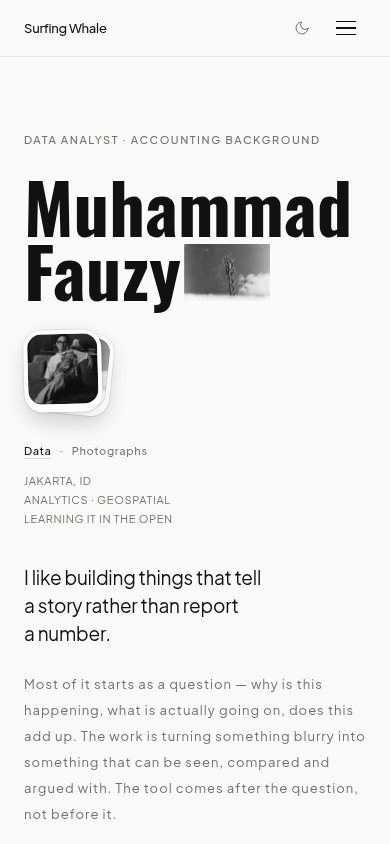
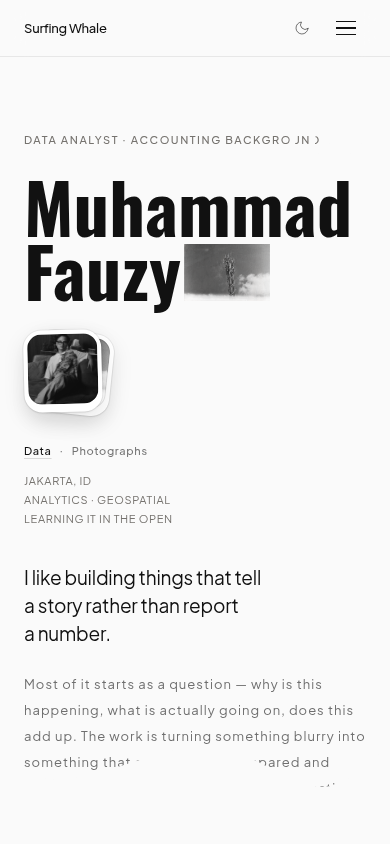
Make the opening the first thing on screen, not the second
Fauzy opened the site on 4G and got a blank white screen, then the counter.
Two loading states where the reference has one — and he is right that it reads
as a bug rather than as an intro.

The cause was not the overlay. The ink was painted by html.intro::before
defined in the external stylesheet, and the page is render-blocked on that
file. Until it lands there is nothing to paint, so the browser shows white.
Reproduced with the stylesheet held back 900ms:

  before   first ink at 1313ms, white before it
  after    first ink at   25ms, zero white frames

INTRO_CRITICAL_CSS is now inlined in <head>, ahead of the stylesheet link. It
cannot use var(--fg) — those tokens live in the file it is racing — so it
carries #111111 and #f0f0f0 as literals, and case G of the checker fails if
they ever drift from globals.css. Verified both ways round: light paints
rgb(17,17,17) before the stylesheet, dark paints rgb(240,240,240).

NOTHING IS ON A CLOCK THAT STARTS AT FIRST PAINT ANY MORE. The exit used a
fixed 1400ms delay. On a slow connection that fires before React has loaded to
draw the number, so the count would be skipped entirely — the fix for the
white screen would have broken the thing it was protecting. Everything now
keys off an `.intro-out` class that React adds when the count finishes, or
that a setTimeout in the inline script adds after 5s if React never arrives.
That backstop is in the HTML, not in a chunk that can fail to load.
[…]

diff --git a/app/components/Intro.tsx b/app/components/Intro.tsx
@@ -9,28 +9,41 @@
 // the curtain is a wave rather than a straight line, and it is the same curve
 // twice rather than two ideas.
 //
+// NOTHING HERE IS ON A CLOCK THAT STARTS AT FIRST PAINT. The ink is painted by
+// INTRO_CRITICAL_CSS, inlined in <head>, and it stays until something says the
+// page is ready. That is the whole shape of this file and it is the second
+// version: the first put the ink in the external stylesheet with a fixed
+// 1400ms delay on its exit, which on a real phone over 4G produced a 1.3s
+// white screen and *then* the counter — two loading states, measured, where
+// the reference has one. The page is render-blocked on that stylesheet, so
+// until it lands there is no ink to paint.
+//
+// A fixed delay would have been wrong anyway. On a slow connection the exit
+// would fire before React had loaded to draw the number, and the whole count
+// would be skipped. The ink leaves when the count finishes, or when the
+// backstop in the inline script gives up on React — not when a timer that
+// started before anything was loaded says so.
+//
 // THREE RULES, because an intro is the one component that can lock somebody
 // out of a site they have not seen yet:
 //
 //  1. It never gates the content. The page is server-rendered underneath and
 //     complete before this mounts; this is an overlay that takes itself away.
-//     With JavaScript off, the pre-paint script below never adds the class,
-//     no overlay is painted, and the site is simply there.
+//     With JavaScript off, the inline script never adds the class, no overlay
+//     is painted, and the site is simply there.
 //
-//  2. It cannot get stuck. The panel's exit is a CSS animation with
-//     `forwards`, not a React state change, so it finishes and stops taking
-//     pointer events even if hydration never happens or throws. React only
-//     drives the number.
+//  2. It cannot get stuck. The backstop is a setTimeout in the inline script,
+//     which runs from the HTML itself rather than from a chunk that can fail
+//     to load, and the exit it triggers is a CSS animation with `forwards`.
+//     React is not on the path that removes this.
 //
 //  3. It plays once a session, and not at all for anyone who has asked for
-//     less motion. Replaying on every internal navigation is how a nice intro
-//     becomes the reason somebody leaves.
+//     less motion.
 //
 // The cost, stated rather than buried: for one visit per session the overlay
-// is the largest thing painted, so it is what LCP measures. 2.2s of ink is a
-// real number on that metric and it is the price of the thing being asked
-// for. Returning within the session, and anyone with reduced motion, pay
-// nothing — no overlay is rendered at all.
+// is the largest thing painted, so it is what LCP measures. Returning within
+// the session, and anyone with reduced motion, pay nothing — no overlay is
+// rendered at all.
 "use client";
 
 import { useEffect, useRef, useState } from "react";
@@ -54,11 +67,47 @@ const FADE_MS = 250;
 export const INTRO_MS = COUNT_MS + HOLD_MS + WAVE_MS + FADE_MS;
 
 const SEEN = "sw-intro-seen";
+// How long to wait for React before clearing the ink anyway.
+//
+// A real trade, both ends of which cost something. Too short and a phone on
+// bad data loses the count it was waiting through. Too long and a bundle that
+// never arrives holds somebody on a black screen for no reason. Five seconds
+// is past where JavaScript lands on a slow connection in testing (~1.3s with
+// the chunks held back 1.2s) with room to spare, and short enough that a
+// broken deploy reads as slow rather than as broken.
+//
+// If this does fire, React may still mount afterwards — so the component
+// checks for `intro-out` and renders nothing rather than drawing a counter
+// over an overlay that has already left.
+const BACKSTOP_MS = 5000;
+
+/**
+ * The ink, inlined in <head> so it is painted from the HTML itself.
+ *
+ * It cannot use var(--fg): those tokens live in the external stylesheet, and
+ * the whole point of this is to be on screen before that arrives. The two
+ * literals below are --fg's light and dark values; they have to be changed
+ * with globals.css, and there is a check for that in scripts/verify-intro.mjs.
+ *
+ * Theme resolution matches THEME_INIT_SCRIPT: an explicit data-theme wins,
+ * otherwise the system preference.
+ */
+export const INTRO_CRITICAL_CSS = `
+html.intro::before{content:"";position:fixed;inset:0;z-index:9998;background:#111111;pointer-events:none}
+html.intro[data-theme="dark"]::before{background:#f0f0f0}
+@media (prefers-color-scheme:dark){html.intro:not([data-theme="light"])::before{background:#f0f0f0}}
+html.intro-out::before{animation:sw-intro-gone ${FADE_MS}ms linear ${WAVE_MS}ms forwards}
+@keyframes sw-intro-gone{to{opacity:0;visibility:hidden}}
+@media (prefers-reduced-motion:reduce){html.intro::before{display:none}}
+`.trim();
 
 /**
  * Runs before first paint, in <head>, the way the theme and reveal scripts
  * already do. Deciding here rather than in React is what stops a returning
  * visitor seeing a flash of ink before the component can say "not this time".
+ *
+ * The timeout is the backstop: it lives in the HTML, so a JavaScript bundle
+ * that never arrives cannot leave anyone looking at a black screen.
  */
 export const INTRO_INIT_SCRIPT = `
 try {
@@ -67,6 +116,9 @@ try {
   if (!seen && !still) {
     document.documentElement.classList.add('intro');
     sessionStorage.setItem('${SEEN}', '1');
+    setTimeout(function () {
+      document.documentElement.classList.add('intro-out');
+    }, ${BACKSTOP_MS});
   }
 } catch (e) {}
 `.trim();
@@ -100,9 +152,16 @@ export function Intro() {
   const raf = useRef(0);
 
   useEffect(() => {
-    if (!document.documentElement.classList.contains("intro")) return;
+    const html = document.documentElement;
+    if (!html.classList.contains("intro")) return;
+    // The backstop already gave up on us. Drawing a counter now would put it
+    // over an overlay that has finished leaving.
+    if (html.classList.contains("intro-out")) return;
     setOn(true);
 
+    // The count starts when React does, not when the page was requested. On a
+    // slow connection the ink has already been up for a while; this is the
+    // part that says the waiting is over.
     const start = performance.now();
     const tick = (now: number) => {
       const t = Math.min(1, (now - start) / COUNT_MS);
@@ -111,14 +170,16 @@ export function Intro() {
     };
     raf.current = requestAnimationFrame(tick);
 
-    // The class goes whatever happens to this component, so a second mount —
-    // a fast route change, Strict Mode in development — never replays it.
-    const done = setTimeout(() => {
-      document.documentElement.classList.remove("intro");
-    }, INTRO_MS);
+    // Counting done, hold on 100, then hand over to the CSS exit.
+    const out = setTimeout(() => html.classList.add("intro-out"), COUNT_MS + HOLD_MS);
+    // And the class that gates all of this goes once the exit has run, so a
+    // second mount — a fast route change, Strict Mode in development — never
+    // replays it.
+    const done = setTimeout(() => html.classList.remove("intro", "intro-out"), INTRO_MS + 400);
 
     return () => {
       cancelAnimationFrame(raf.current);
+      clearTimeout(out);
       clearTimeout(done);
     };
   }, []);

diff --git a/app/globals.css b/app/globals.css
@@ -814,43 +814,35 @@ body:has(.photo-row) {
 }
 
 /* ---- The opening ------------------------------------------------------
-   app/components/Intro.tsx. Everything that takes the overlay away lives
-   here rather than in React state, on purpose: a CSS animation with
-   `forwards` finishes whether or not the component hydrates, so a failed or
-   slow hydration leaves a usable page instead of a black screen nobody can
-   get past. React only drives the number.
+   app/components/Intro.tsx.
 
-   NOTHING LIFTS. The first version slid the ink panel up out of the way at
-   the same time as the paper rose, and the ink's straight bottom edge is what
-   anyone actually saw — the wave was behind it the whole time. A frame-by-
-   frame capture at 45ms showed a clean horizontal line where the curve was
-   supposed to be. The ink now sits still and is covered, which is what the
-   reference does and the only way the edge of the wave is the edge anyone
-   sees.
+   The INK IS NOT HERE. It is in INTRO_CRITICAL_CSS, inlined in <head>, because
+   this file is an external stylesheet and the page is render-blocked on it:
+   on a phone over 4G that meant 1.3 seconds of white and then the counter, two
+   loading states where the reference has one. Measured, with the stylesheet
+   held back 900ms.
+
+   What is left here runs after the ink is already up, by which time this
+   stylesheet has certainly arrived.
+
+   NOTHING IS ON A TIMER THAT STARTS AT FIRST PAINT. Everything keys off
+   `.intro-out`, which React adds when the count finishes — or which the
+   backstop in the inline script adds if React never arrives. A fixed delay
+   would fire the exit before the number had loaded on a slow connection and
+   skip the whole count.
+
+   NOTHING LIFTS, either. An earlier version slid the ink up while the paper
+   rose, and the ink's straight bottom edge is what anyone actually saw. The
+   ink sits still and is covered, which is what the reference does.
 
    Timings mirror the constants in Intro.tsx; change them together. */
-
-/* The ink is painted by the class the pre-paint script adds, not by React.
-   Rendering it in the component meant the page was on screen for the ~150ms
-   before hydration and the overlay dropped on top of it — a flash of the
-   whole site, then black, then the site again. Measured at 149ms on a
-   production build; this closes it, because a ::before on <html> is painted
-   in the first frame.
-
-   It hides on its own schedule, with `forwards`, so it leaves on time even if
-   React never mounts to take the class off. */
-html.intro::before {
-  content: "";
-  position: fixed;
-  inset: 0;
-  z-index: 9998;
-  background: var(--fg);
-  pointer-events: none;
-  animation: sw-intro-gone 250ms linear 1950ms forwards;
+.sw-intro {
+  /* Held open until the exit is called for. */
+  opacity: 1;
 }
 
-.sw-intro {
-  animation: sw-intro-gone 250ms linear 1950ms forwards;
+html.intro-out .sw-intro {
+  animation: sw-intro-gone 250ms linear 550ms forwards;
 }
 
 /* Paper, rising over the ink and over the count. It sits at `top: 100%` with
@@ -858,8 +850,8 @@ html.intro::before {
    to appear is the curve. It travels a viewport plus the crest's own height,
    which is what puts the body over the whole screen while the crest is still
    on it. */
-.sw-intro-wave {
-  animation: sw-intro-rise 550ms cubic-bezier(0.65, 0, 0.35, 1) 1400ms forwards;
+html.intro-out .sw-intro-wave {
+  animation: sw-intro-rise 550ms cubic-bezier(0.65, 0, 0.35, 1) forwards;
 }
 
 @keyframes sw-intro-rise {
@@ -870,14 +862,13 @@ html.intro::before {
   to { opacity: 0; visibility: hidden; }
 }
 
-/* Nothing was rendered for this reader in the first place — the pre-paint
-   script never adds the class — but if the preference changes mid-animation
-   the overlay should leave immediately rather than finish its sweep. */
+/* Nothing was rendered for this reader in the first place — the inline script
+   never adds the class — but if the preference changes mid-animation the
+   overlay should leave immediately rather than finish its sweep. */
 @media (prefers-reduced-motion: reduce) {
   .sw-intro,
   .sw-intro-wave {
     animation: none;
   }
   .sw-intro { display: none; }
-  html.intro::before { display: none; }
 }

diff --git a/app/layout.tsx b/app/layout.tsx
@@ -5,7 +5,7 @@ import "./globals.css";
 import { SITE } from "./lib/site";
 import { THEME_INIT_SCRIPT } from "./components/ThemeToggle";
 import { REVEAL_INIT_SCRIPT } from "./components/Reveal";
-import { Intro, INTRO_INIT_SCRIPT } from "./components/Intro";
+import { Intro, INTRO_INIT_SCRIPT, INTRO_CRITICAL_CSS } from "./components/Intro";
 
 // Matches the reference site, which loads Plus Jakarta Sans at 400/500/600 —
 // confirmed from its stylesheet link and from the font names embedded in a
@@ -144,9 +144,15 @@ export default function RootLayout({
             straight back out on load. */}
         <script dangerouslySetInnerHTML={{ __html: THEME_INIT_SCRIPT }} />
         <script dangerouslySetInnerHTML={{ __html: REVEAL_INIT_SCRIPT }} />
+        {/* The opening's ink, inline. It has to be in the HTML rather than in
+            the stylesheet: the page is render-blocked on that file, so on a
+            slow connection putting it there showed white until the CSS landed
+            and only then the counter. */}
+        <style dangerouslySetInnerHTML={{ __html: INTRO_CRITICAL_CSS }} />
         {/* Decides, before anything is painted, whether this visit gets the
             opening — once a session, and never for anyone who has asked for
-            less motion. */}
+            less motion. Also carries the backstop that clears the ink if the
+            JavaScript never arrives. */}
         <script dangerouslySetInnerHTML={{ __html: INTRO_INIT_SCRIPT }} />
       </head>
       <body className="min-h-full flex flex-col">

diff --git a/docs/PRD-v3-admin-mode.md b/docs/PRD-v3-admin-mode.md
@@ -487,8 +487,27 @@ not seen yet. Three rules, all checked by `scripts/verify-intro.mjs`:
 
 **A flash of the whole site, then black, then the site again.** The overlay was
 a React component, so it arrived a hydration late — measured at 149ms on a
-production build. The ink is now painted by `html.intro::before`, set by the
-pre-paint script, so it is there in the first frame.
+production build. The ink moved to `html.intro::before`, set by the pre-paint
+script.
+
+**That fix was not enough, and a phone found the rest of it.** `::before` was
+still defined in the external stylesheet, and the page is render-blocked on
+that file. On 4G Fauzy got **1.3 seconds of white and then the counter** — two
+loading states where the reference has one. Reproduced with the stylesheet
+held back 900ms: first ink at 1313ms, with white before it.
+
+The ink is now inlined in `<head>` as `INTRO_CRITICAL_CSS`. **First ink at
+25ms, zero white frames.** It cannot use `var(--fg)` — those tokens are in the
+file it is racing — so it carries `#111111` and `#f0f0f0` as literals, and
+case G of the checker fails if they drift from `globals.css`.
+
+**Nothing is on a clock that starts at first paint any more.** The exit used a
+fixed 1400ms delay, which on a slow connection would have fired before React
+had loaded to draw the number and skipped the whole count. Everything keys off
+an `.intro-out` class that React adds when the count finishes — or that a
+`setTimeout` in the inline script adds after 5s if React never arrives. That
+backstop lives in the HTML rather than in a chunk that can fail to load, and
+React stands down if it finds the exit already run.
 
 **The wave was invisible.** Two versions of it. First the curtain was one tall
 path whose top 30% was the swell: on a 390×844 phone the solid part came to
